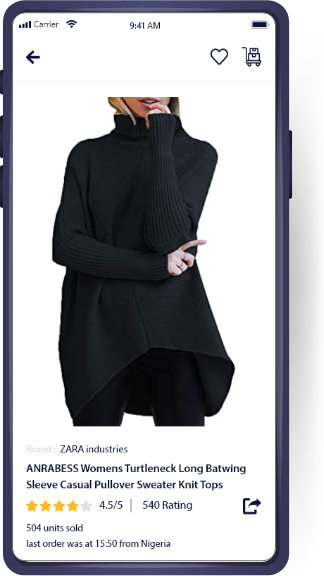
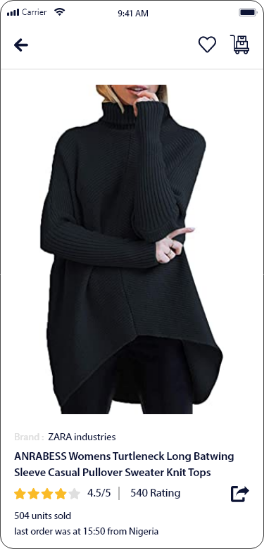
slider

diff --git a/index.html b/index.html
@@ -238,13 +238,14 @@
   <div class="monitor">
     <div class="container">
       <img class="monitor-after" src="./assets/images/monitor.png" alt="">
+      <img class="frame" src="./assets/images/frame.png" alt="">
       <div class="section-header">
         <h5>واجهات تطبيق <span>كرتونة</span> ؟</h5>
         <p>واجهات بسيطة وسهلة الإستخدام وتفاعلية مع المستخدم</p>
       </div>
       <div class="swiper-container">
         <div class="swiper-wrapper">
-          <div class="swiper-slide"><img src="./assets/images/slider-1.png" alt="slide 1"></div>
+          <div class="swiper-slide"><img src="./assets/images/slider-2.png" alt="slide 1"></div>
           <div class="swiper-slide"><img src="./assets/images/slider-2.png" alt="slide 1"></div>
           <div class="swiper-slide"><img src="./assets/images/slider-3.png" alt="slide 1"></div>
           <div class="swiper-slide"><img src="./assets/images/slider-4.png" alt="slide 1"></div>

diff --git a/assets/css/style.css b/assets/css/style.css
@@ -345,6 +345,7 @@ img {
   padding: 10px;
   left: 7px;
   top: 0;
+  z-index: 20 !important;
 }
 .monitor .swiper-slide-active::before {
   content: "";
@@ -353,7 +354,7 @@ img {
   height: 750px;
   top: -29px;
   left: -39px;
-  z-index: 99;
+  z-index: 99 !important;
 }
 .monitor .swiper-container-3d .swiper-slide-shadow-left,
 .monitor .swiper-container-3d .swiper-slide-shadow-right {
@@ -386,6 +387,15 @@ img {
   bottom: -50px;
   width: 401px;
   height: 369px;
+}
+.monitor .frame {
+  position: absolute;
+  width: 284px;
+  height: 519px;
+  z-index: 1;
+  left: 51.5%;
+  transform: translate(-50%, 0);
+  bottom: 62px;
 }
 
 .statics-parent {
@@ -884,6 +894,16 @@ footer ul li a {
 
   .download-our-app {
     padding-bottom: 30px;
+  }
+
+  .monitor .frame {
+    position: absolute;
+    width: 286px;
+    height: 520px;
+    z-index: 1;
+    left: 54.5%;
+    transform: translate(-50%, 0);
+    bottom: 62px;
   }
 }
 @media (max-width: 376px) {

diff --git a/assets/sass/style.scss b/assets/sass/style.scss
@@ -399,6 +399,7 @@ img {
     padding: 10px;
     left: 7px;
     top: 0;
+    z-index: 20 !important;
   }
 
   .swiper-slide-active::before {
@@ -408,7 +409,7 @@ img {
     height: 750px;
     top: -29px;
     left: -39px;
-    z-index: 99;
+    z-index: 99 !important;
   }
   .swiper-container-3d .swiper-slide-shadow-left,
   .swiper-container-3d .swiper-slide-shadow-right {
@@ -442,6 +443,15 @@ img {
     bottom: -50px;
     width: 401px;
     height: 369px;
+  }
+  .frame{
+    position: absolute;
+    width: 284px;
+    height: 519px;
+    z-index: 1;
+    left: 51.5%;
+    transform: translate(-50%, 0);
+    bottom: 62px
   }
 }
 
@@ -1012,6 +1022,17 @@ footer {
   }
   .download-our-app {
     padding-bottom: 30px;
+  }
+  .monitor{
+    .frame{
+      position: absolute;
+      width: 286px;
+      height: 520px;
+      z-index: 1;
+      left: 54.5%;
+      transform: translate(-50%, 0);
+      bottom: 62px;
+    }
   }
 }
 
